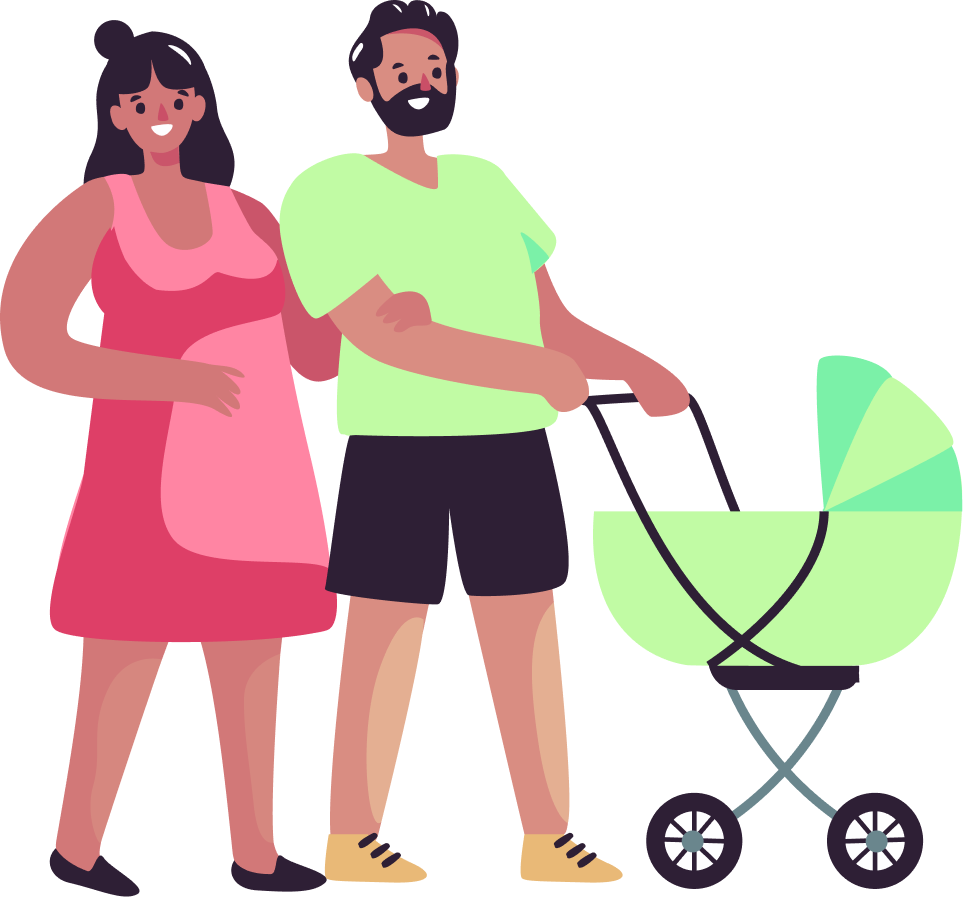
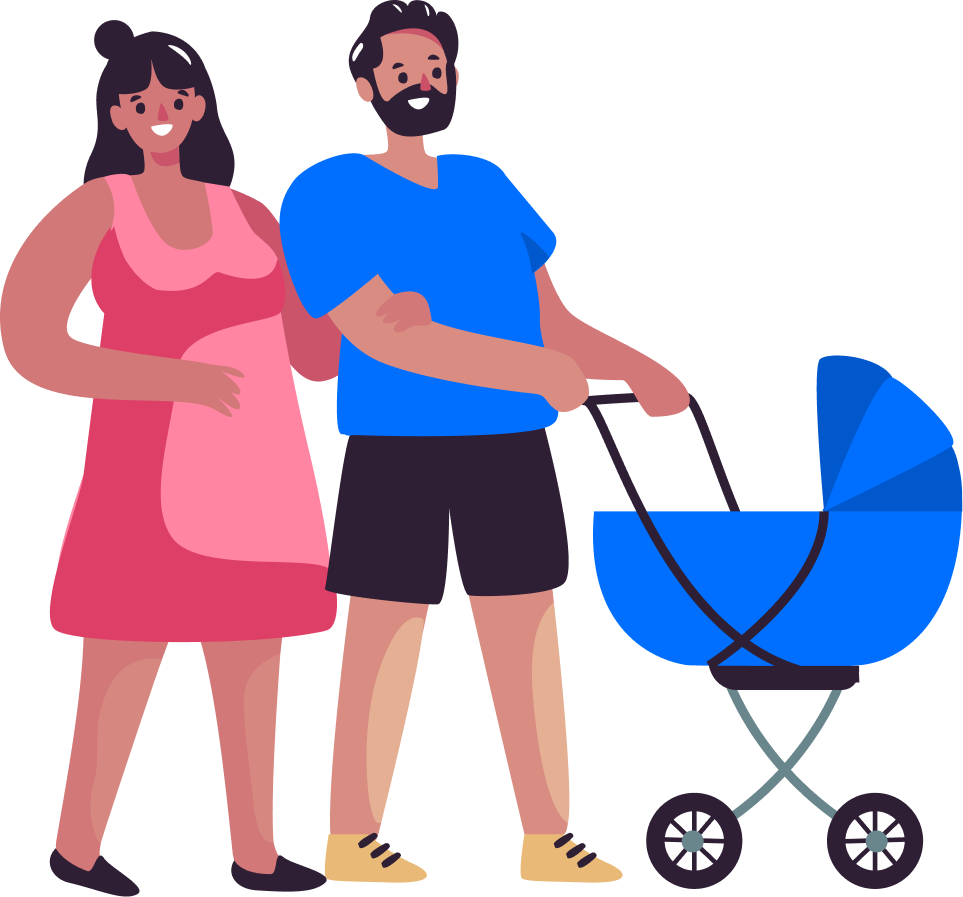
ganti ganti semua :')

Changed region(s): [[0.5919, 0.3746, 1.0, 0.7492], [0.2804, 0.1561, 0.5919, 0.4058], [0.3427, 0.3746, 0.5919, 0.4994]]

diff --git a/login.html b/login.html
@@ -41,7 +41,7 @@
             <div class="col-lg-5 col-md-5 ml-auto">
                 <form action="#">
                     <h2 class="font-weight-bold">Welcome Back!</h2>
-                    <p class="pb-4">Login to start your staycation </p>
+                    <p class="pb-4">Login to start your <span class="font-weight-bold"><u>staycation</u></span> </p>
                     <div class="row">
                         <!-- Username -->
                         <div class="input-group col-lg-12 mb-4">
@@ -66,7 +66,8 @@
                         <!-- Login Button -->
                         <div class="form-group col-lg-12 mx-auto mb-0 mt-3">
                             <button class="btn-block font-weight-bold rounded-pill p-2 cust-btn">Login</button>
-                            <p class="text-center mt-2">not a member yet? <a href="register.html" class="reg-link">register here</a>
+                            <p class="text-center mt-2">not a member yet? <a href="register.html"
+                                    class="reg-link">register here</a>
                             </p>
                         </div>
                     </div>

diff --git a/assets/css/style.css b/assets/css/style.css
@@ -5,11 +5,11 @@
     font-family: 'Poppins';
 }
 
-/* Login page */
+/* Login and registration page */
 .form-control:focus {
     text-decoration: none;
     border-color: none !important;
-    box-shadow: none;
+    box-shadow: none !important;
 }
 
 .form-control {
@@ -17,27 +17,27 @@
 }
 
 .cust-btn {
-    background-color: #FF85A3;
+    background-color: #006FFF;
     color: whitesmoke;
     border: none;
     transition: 0.4s;
 }
 
 .cust-btn:hover {
-    background-color: #DE3F67;
+    background-color: #0058CC;
     border: none;
     text-decoration: none;
 }
 
 .reg-link {
     text-decoration: none;
-    color: #FF85A3;
+    color: #006FFF;
     transition: 0.4s;
 }
 
 .reg-link:hover {
     text-decoration: none;
-    color: #DE3F67;
+    color: #0058CC;
 }
 
 /* Sing Up page */
@@ -46,5 +46,5 @@
 }
 
 .moon-txt {
-    color: #7BF1A8;
+    color: #0058CC;
 }

diff --git a/register.html b/register.html
@@ -42,7 +42,7 @@
                 <form action="#">
                     <h2 class="font-weight-bold">Sign Up to <span class="baby-txt">BABY</span><span
                             class="moon-txt">MOON</span></h2>
-                    <p class="pb-4">and find your best place to stay</p>
+                    <p class="pb-4">and find a <span class="font-weight-bold"><u>safe</u></span> place to stay</p>
                     <div class="row">
                         <!-- Email -->
                         <div class="input-group col-lg-12 mb-4">
